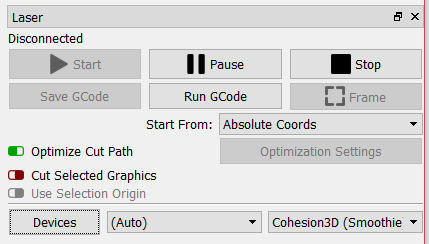
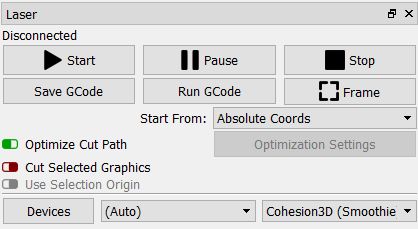
G-Code.md
- Added g-code.md file
- Small edit to the installation.md file
- Updated the lasermodule.png file to show all buttons enabled

Changed region(s): [[0.0, 0.0, 1.0, 1.0], [0.0, 0.5808, 0.311, 0.6725]]

diff --git a/G-Code.md b/G-Code.md
@@ -1,0 +1,21 @@
+# G-Code
+[Return Home](README.md)
+
+## Generating G-Code
+G-Code generation is real time and requires no action on your part to generate. 
+
+Drawing in a layer or importing a vector file will automatically generate the g-code based on the settings for that layer. 
+
+Importing an image will automatically generate raster scan for the image
+
+## Saving and Importing G-Code
+![Laser Modle](/img/LaserModule.png)
+
+You can save the g-code that was generated by clicking on the *Save GCode* button. This will prompt you for a location to save the generated g-code for review
+
+You can import a previously generated g-code file by clicking on the *Run GCode* button. 
+
+## Console (Direct G-Code Entry)
+You can use the console to directly input and execute g-code commands. Enter a g-code command in the text box and pressing return will send it to the connected device.
+
+![Console Tab](/img/Console.png)

diff --git a/Installation.md b/Installation.md
@@ -1,7 +1,10 @@
 # Installation
-
+[Return Home](README.md)
 ## Download 
-Download the latest release version that matches your computer. Windows 64-bit, Windows 32-bit or Mac OSX
+Download the latest release version that matches your computer. 
+* Windows 64-bit
+* Windows 32-bit
+* Mac OSX
 
 ## Install
 ![LightBurn Setup](/img/Setup-1.png)
